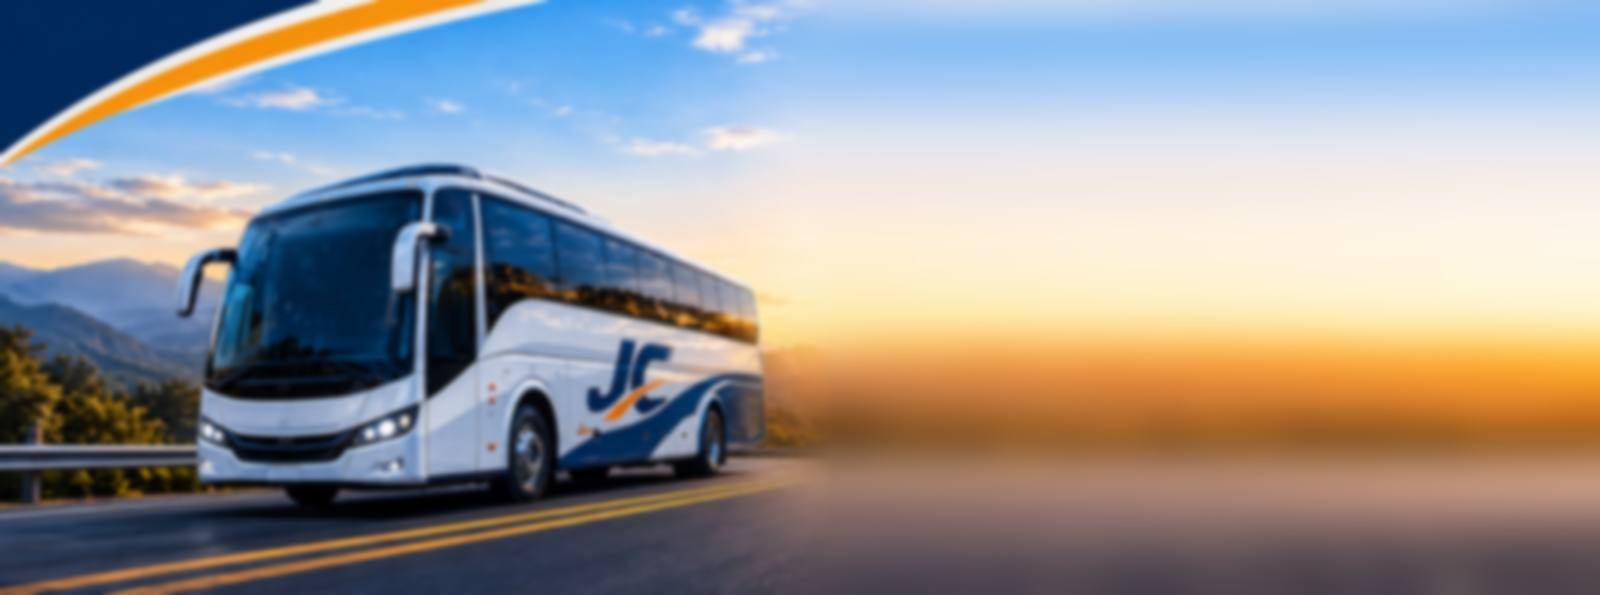
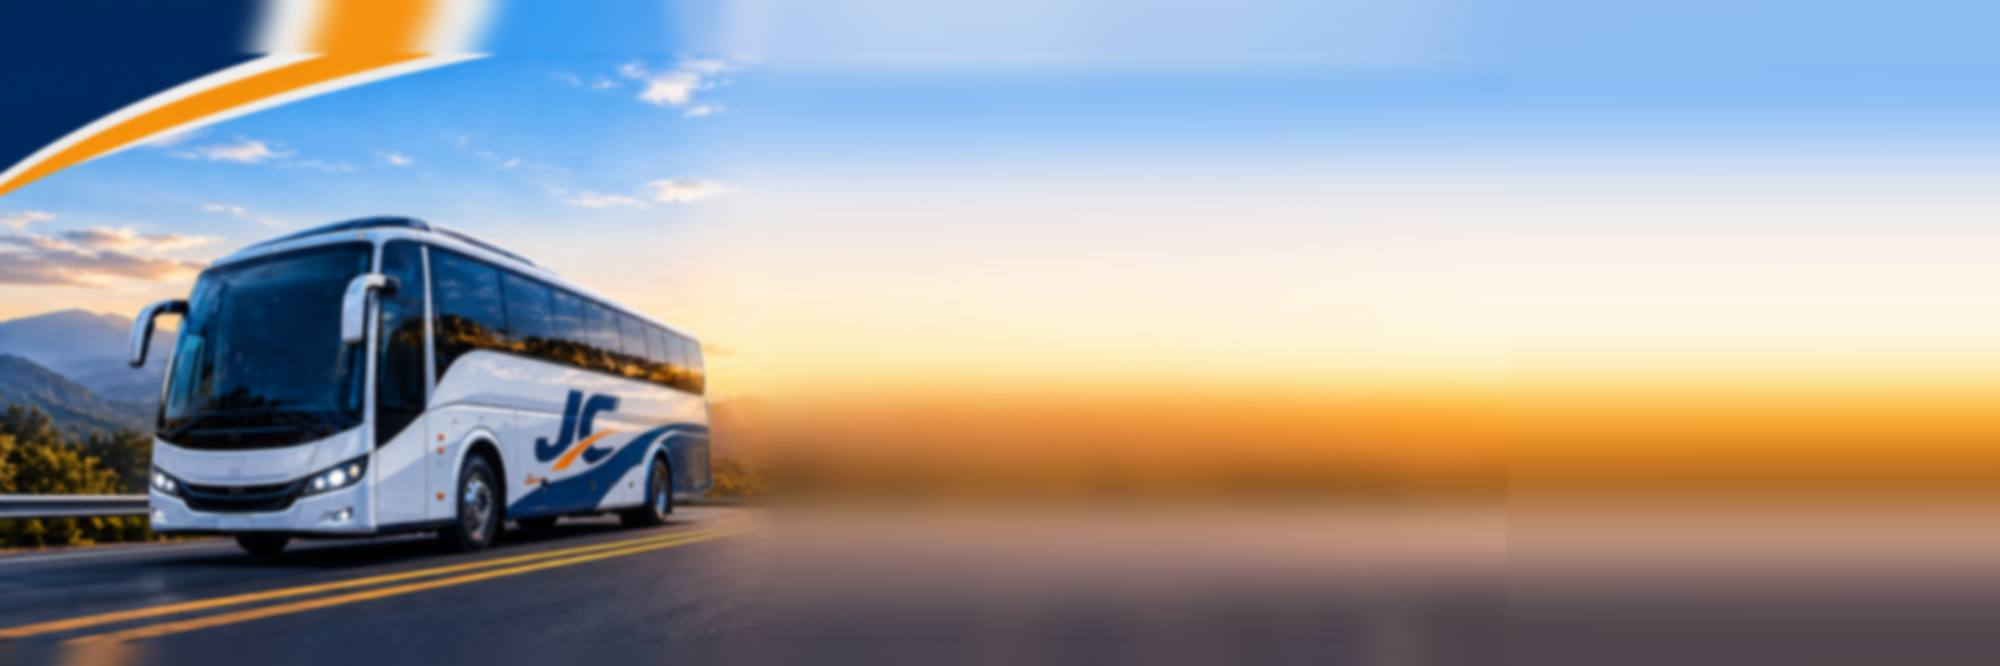
Bus un poco a la izquierda

diff --git a/frontend/src/components/landing.tsx b/frontend/src/components/landing.tsx
@@ -59,7 +59,7 @@ export function Hero() {
         src={`${BASE_PATH}/hero-bus.jpg`}
         alt=""
         aria-hidden
-        className="absolute inset-0 -z-10 size-full scale-105 object-cover object-[30%_center]"
+        className="absolute inset-0 -z-10 size-full scale-105 object-cover object-left"
       />
       <div className="absolute inset-0 -z-10 bg-gradient-to-b from-ruta/70 via-ruta/60 to-ruta/90" aria-hidden />
       <div className="mx-auto max-w-6xl px-4">

diff --git a/frontend/src/components/site-chrome.tsx b/frontend/src/components/site-chrome.tsx
@@ -124,7 +124,7 @@ export function SiteFooter() {
       </div>
             <div className="border-t border-white/10 py-9 text-center text-sm text-white/50">
         <p>© {new Date().getFullYear()} JC Transporte</p>
-        <p className="mt-1">Desarrolado por César Matías Rodas Arce. Todos los derechos reservados.</p>
+        <p className="mt-1">Desarrollado por César Matías Rodas Arce. Todos los derechos reservados.</p>
       </div>
     </footer>
   );
